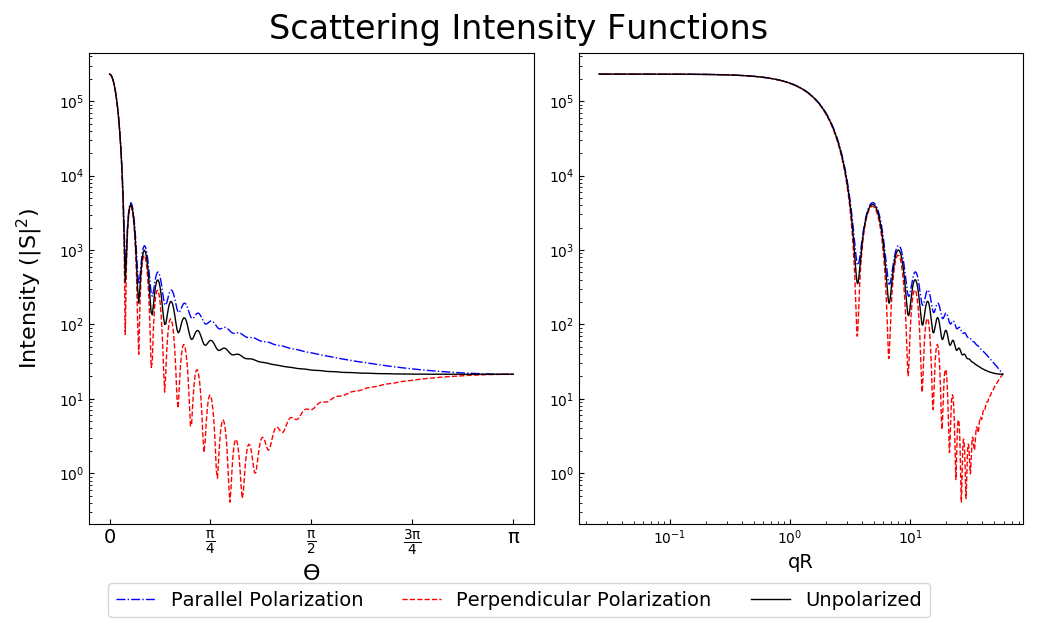
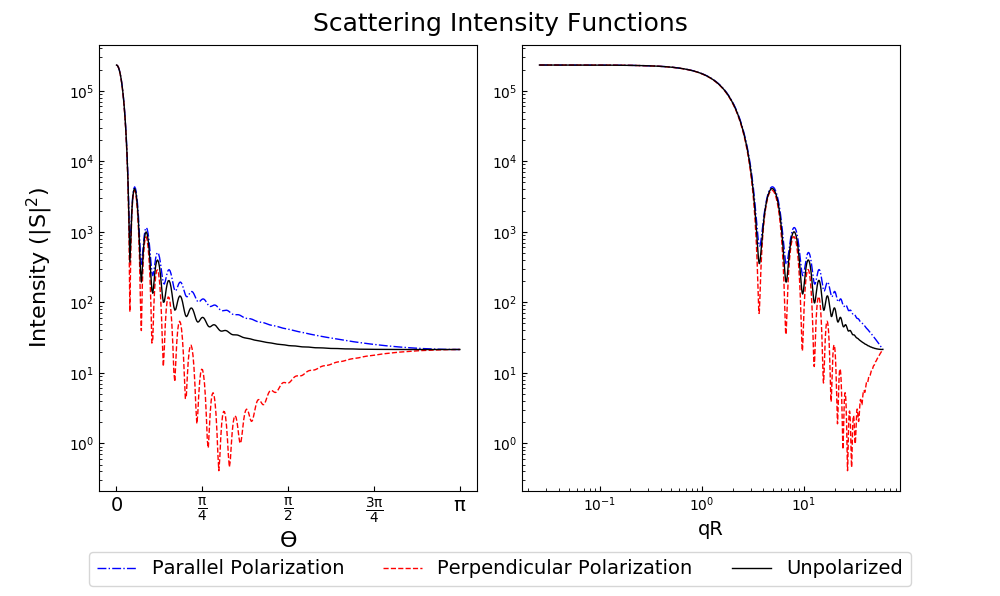
minor
docs

diff --git a/docs/examples.rst b/docs/examples.rst
@@ -1,7 +1,7 @@
 .. highlight:: python
 
-Example Scripts
-===============
+General Usage tips and Example Scripts
+======================================
 
 Mie Efficiencies of a Single Homogeneous Particle
 -------------------------------------------------
@@ -22,7 +22,7 @@ To calculate the efficencies of a single homogeneous particle, use the :py:func:
 Mie Efficencies of a Weibull Distribution
 -----------------------------------------
 
-Consider the 405 nm Mie coefficients of 105 particles/cm3, with m = 1.5+0.5i, in a `Weibull distribution <https://en.wikipedia.org/wiki/Weibull_distribution>`_ with shape parameter sh = 5 and scale parameter sc = 200. This would take seven lines in Python, three of which are module import commands: ::
+Consider the 405 nm Mie coefficients of 105 particles/cm\ :sup:`3`, with m = 1.5+0.5i, in a `Weibull distribution <https://en.wikipedia.org/wiki/Weibull_distribution>`_ with shape parameter sh = 5 and scale parameter sc = 200: ::
 
 	>>> import PyMieScatt as ps
 	>>> import numpy as np
@@ -38,3 +38,53 @@ Consider the 405 nm Mie coefficients of 105 particles/cm3, with m = 1.5+0.5i, in
 	 'Bratio': 550.87163111634698,
 	 'Bsca': 1985.3986899482211,
 	 'G': 0.54662325578736115}
+
+
+Plotting Angular Functions
+--------------------------
+
+The angular functions return arrays that are suitable for plotting with `MatPlotLib <https://matplotlib.org/>`_. For example, plot the angular scattering functions of a 5 μm particle with m=1.7+0.5i, illuminated by 532 nm light: ::
+
+	>>> import PyMieScatt as ps
+	>>> import numpy as np
+	>>> import matplotlib.pyplot as plt
+	>>> 
+	>>> m=1.7+0.5j
+	>>> w=532
+	>>> d=5000
+	>>> 
+	>>> theta,SL,SR,SU = ps.ScatteringFunction(m,w,d)
+	>>> qR,SLQ,SRQ,SUQ = ps.qSpaceScatteringFunction(m,w,d,normed=False)
+	>>> 
+	>>> plt.close('all')
+	>>> 
+	>>> fig1 = plt.figure(figsize=(10,6))
+	>>> ax1 = fig1.add_subplot(1,2,1)
+	>>> ax2 = fig1.add_subplot(1,2,2)
+	>>> 
+	>>> ax1.semilogy(theta,SL,'b',ls='dashdot',lw=1,label="Parallel Polarization")
+	>>> ax1.semilogy(theta,SR,'r',ls='dashed',lw=1,label="Perpendicular Polarization")
+	>>> ax1.semilogy(theta,SU,'k',lw=1,label="Unpolarized")
+	>>> 
+	>>> x_label = ["0", r"$\mathregular{\frac{\pi}{4}}$", r"$\mathregular{\frac{\pi}{2}}$",r"$\mathregular{\frac{3\pi}{4}}$",r"$\mathregular{\pi}$"]
+	>>> x_tick = [0,np.pi/4,np.pi/2,3*np.pi/4,np.pi]
+	>>> ax1.set_xticks(x_tick)
+	>>> ax1.set_xticklabels(x_label,fontsize=14)
+	>>> ax1.tick_params(which='both',direction='in')
+	>>> ax1.set_xlabel("ϴ",fontsize=16)
+	>>> ax1.set_ylabel(r"Intensity ($\mathregular{|S|^2}$)",fontsize=16,labelpad=10)
+	>>> 
+	>>> ax2.loglog(qR,SLQ,'b',ls='dashdot',lw=1,label="Parallel Polarization")
+	>>> ax2.loglog(qR,SRQ,'r',ls='dashed',lw=1,label="Perpendicular Polarization")
+	>>> ax2.loglog(qR,SUQ,'k',lw=1,label="Unpolarized")
+	>>> 
+	>>> ax2.tick_params(which='both',direction='in')
+	>>> ax2.set_xlabel("qR",fontsize=14)
+	>>> handles, labels = ax1.get_legend_handles_labels()
+	>>> fig1.legend(handles,labels,fontsize=14,ncol=3,loc=8)
+	>>> 
+	>>> fig1.suptitle("Scattering Intensity Functions",fontsize=18)
+	>>> fig1.show()
+	>>> plt.tight_layout(rect=[0.01,0.05,0.915,0.95])
+
+.. image:: images/sif.png

diff --git a/docs/forward.rst b/docs/forward.rst
@@ -555,10 +555,3 @@ These functions compute the angle-dependent scattered field intensities, scatter
    
    p, t : numpy.ndarray
 	The π\ :sub:`n` and τ\ :sub:`n` arrays, of length **nmax**.
-
-Example
-~~~~~~~
-
-The angular functions return arrays that are suitable for plotting with `MatPlotLib <https://matplotlib.org/>`_. Here's an image of theta-space (left) and q-space (right) scattering intensity functions for a 5 μm particle with m=1.7+0.5i and λ=532 nm.
-
-.. image:: images/sif.png

diff --git a/docs/index.rst b/docs/index.rst
@@ -29,7 +29,7 @@ or from `GitHub <https://github.com/bsumlin/PyMieScatt>`_. The current version i
    Forward Functions for Homogeneous Spheres <forward>
    Forward Functions for Coated Spheres <forwardCS>
    Inverse Mie Functions for Homogeneous Spheres (incomplete) <inverse>
-   Example Scripts (incomplete) <examples>
+   General Usage tips and Example Scripts (incomplete) <examples>
    
    
 
